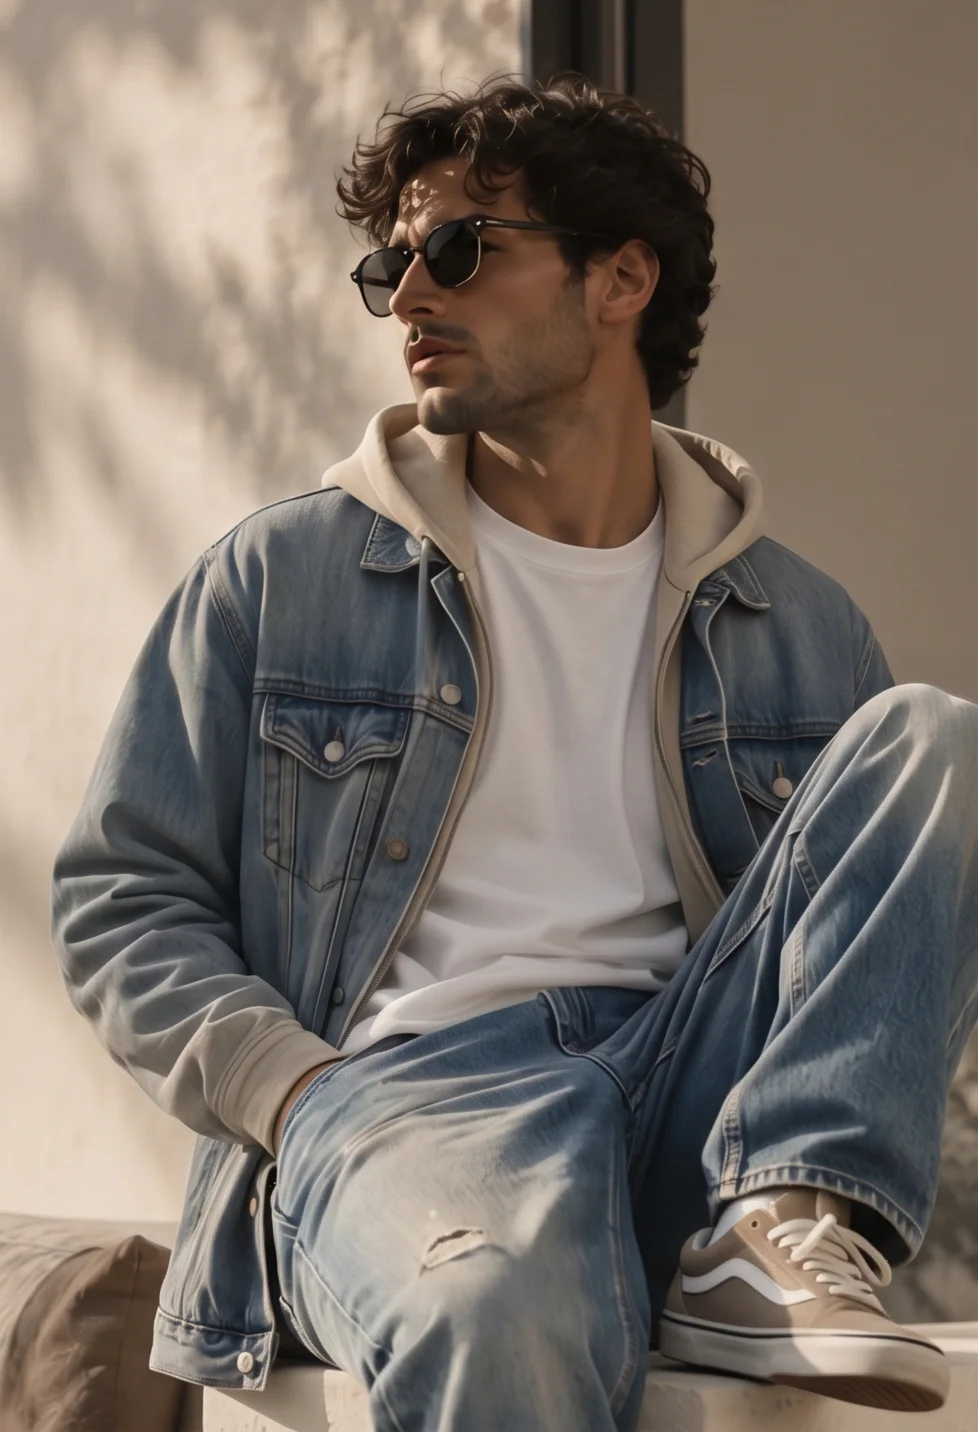
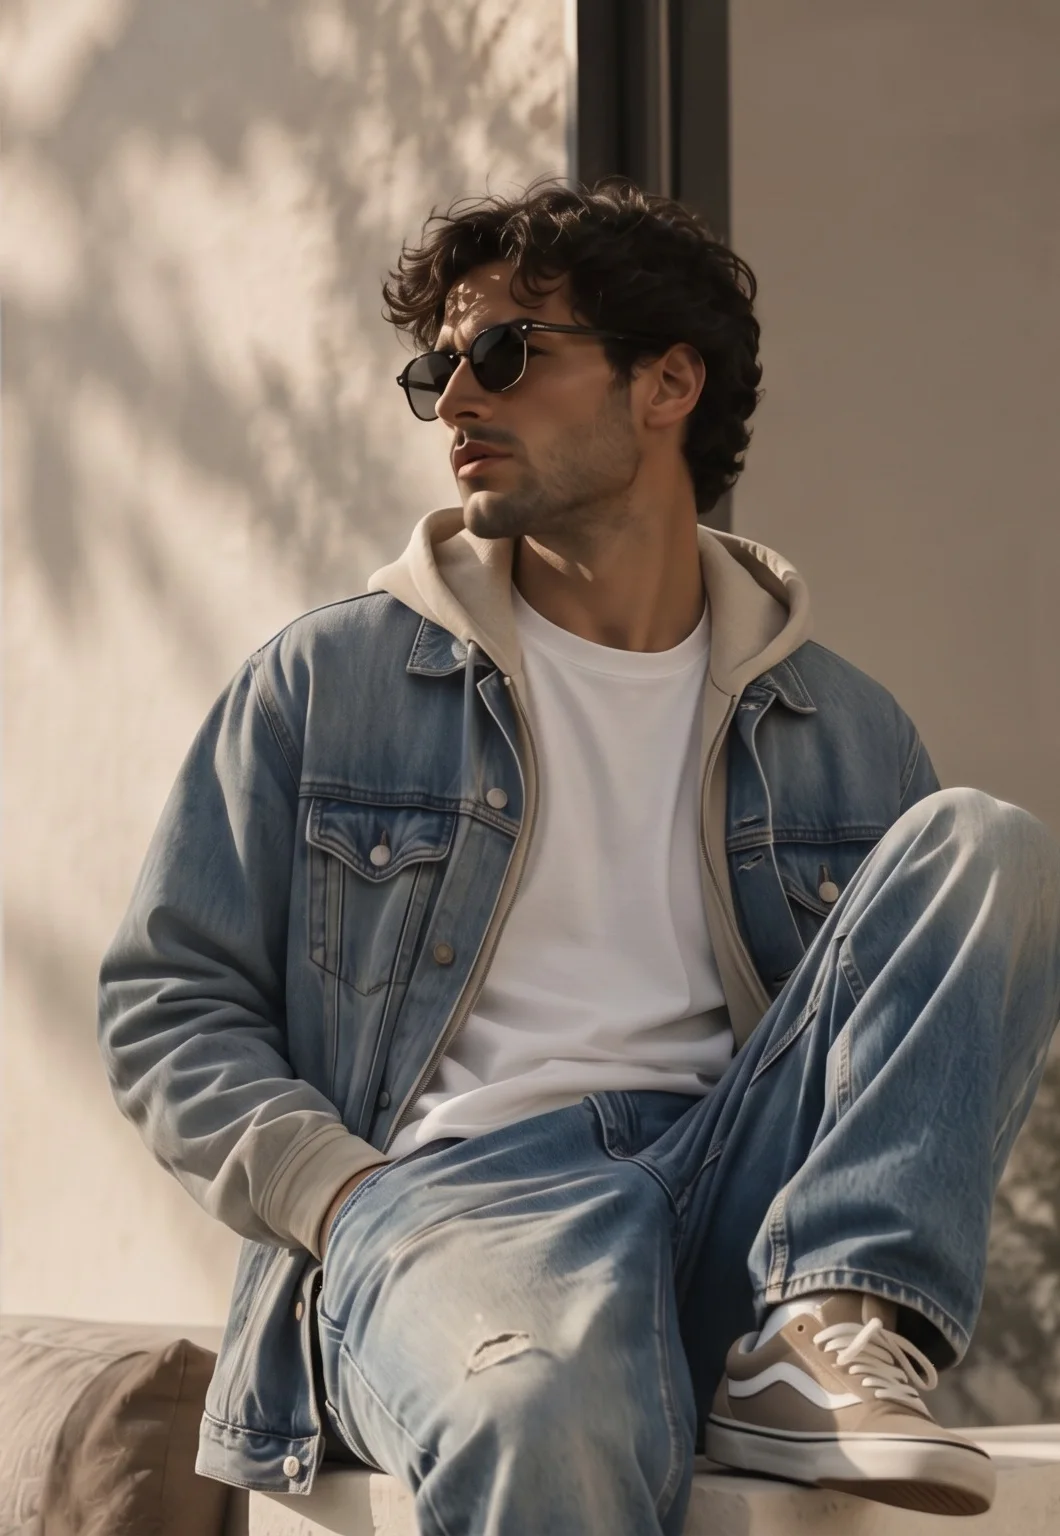
feat: héros plein écran avec la scène complète et flou dégradé
- Grand écran : scène hero3 entière en fond (textes de maquette effacés : hero3-scene.jpg), plein écran
- Flou léger derrière le texte, qui s'efface vers le personnage et dans le bas du héros
- Texte décalé sur le ciel, accroche sous le titre entre 1024 et 1280 px, libellé vertical retiré
- Portrait du modèle (tablette, mobile) recadré depuis hero3-retouche.jpg, fondus réduits aux bords
- Menu : liens sur une seule ligne

diff --git a/ui/src/features/accueil/PageAccueil.tsx b/ui/src/features/accueil/PageAccueil.tsx
@@ -25,29 +25,42 @@ function Heros() {
   const parallaxe = useMedia('(min-width: 640px)') && actives
   return (
     <section ref={ref} className="relative flex flex-col overflow-hidden bg-gradient-to-b from-sable-200 via-sable-100 to-nacre sm:block sm:min-h-[100svh]">
-      {/* Arche de lumière (rappel de la maquette) */}
-      <div aria-hidden className="absolute -right-[20%] top-[-20%] h-[120%] w-[90%] rounded-t-full bg-gradient-to-b from-neige/45 to-transparent blur-2xl sm:-right-[10%] sm:w-[60%]" />
-      <motion.div style={parallaxe ? { y: yImage } : undefined} className="relative order-2 mx-auto h-[62svh] w-[88%] sm:absolute sm:bottom-0 sm:right-0 sm:order-none sm:mx-0 sm:h-[88%] sm:w-[46%] lg:w-[38%]">
-        <motion.img src="/images/campagne/hero-modele-640.webp" srcSet="/images/campagne/hero-modele-640.webp 640w, /images/campagne/hero-modele-1280.webp 978w"
-          sizes="(min-width: 1024px) 38vw, (min-width: 640px) 46vw, 88vw" alt="Homme en veste en jean et sweat à capuche écru, lunettes de soleil, assis sur un muret"
-          {...{ fetchpriority: 'high' }} className="masque-heros h-full w-full object-cover object-top"
+      {/* Grand écran : la scène entière en fond, nette sur le personnage */}
+      <div aria-hidden className="absolute inset-0 hidden lg:block">
+        <motion.img src="/images/campagne/hero-scene-1920.webp"
+          srcSet="/images/campagne/hero-scene-1280.webp 1280w, /images/campagne/hero-scene-1920.webp 1920w, /images/campagne/hero-scene-2560.webp 2560w"
+          sizes="100vw" alt="" {...{ fetchpriority: 'high' }} className="h-full w-full object-cover object-[62%_center]"
+          initial={actives ? { opacity: 0 } : false} animate={{ opacity: 1 }} transition={{ duration: 1.6, ease: EASE_MAISON }} />
+      </div>
+      {/* Flou dégradé : fort derrière le texte, il s'efface en allant vers le personnage */}
+      <div aria-hidden className="flou-heros pointer-events-none absolute inset-0 hidden backdrop-blur-[10px] lg:block" />
+      {/* Voile nacré léger pour la lisibilité du texte, et fondu vers la section suivante */}
+      <div aria-hidden className="pointer-events-none absolute inset-0 hidden bg-gradient-to-r from-nacre/50 via-nacre/20 via-45% to-transparent to-65% lg:block" />
+      <div aria-hidden className="pointer-events-none absolute inset-x-0 bottom-0 hidden h-6 bg-gradient-to-b from-transparent to-nacre/70 lg:block" />
+
+      {/* Mobile et tablette : arche de lumière + portrait du modèle */}
+      <div aria-hidden className="absolute -right-[20%] top-[-20%] h-[120%] w-[90%] rounded-t-full bg-gradient-to-b from-neige/45 to-transparent blur-2xl sm:-right-[10%] sm:w-[60%] lg:hidden" />
+      <motion.div style={parallaxe ? { y: yImage } : undefined} className="relative order-2 mx-auto h-[62svh] w-[88%] sm:absolute sm:bottom-0 sm:right-0 sm:order-none sm:mx-0 sm:h-[88%] sm:w-[46%] lg:hidden">
+        <motion.img src="/images/campagne/hero-modele-640.webp" srcSet="/images/campagne/hero-modele-640.webp 640w, /images/campagne/hero-modele-1280.webp 1060w"
+          sizes="(min-width: 640px) 46vw, 88vw" alt="Homme en veste en jean et sweat à capuche écru, lunettes de soleil, assis sur un muret"
+          className="masque-heros h-full w-full object-cover object-top"
           initial={actives ? { opacity: 0, scale: 1.06 } : false} animate={{ opacity: 1, scale: 1 }} transition={{ duration: 1.8, ease: EASE_MAISON }} />
       </motion.div>
 
       <motion.div style={parallaxe ? { opacity: opaciteTexte } : undefined} variants={conteneurCascade} initial={actives ? 'cache' : false} animate="visible"
-        className="conteneur relative z-10 order-1 grid pb-12 pt-28 sm:min-h-[100svh] sm:grid-rows-[1fr_auto] sm:pb-10 lg:grid-cols-[1fr_auto_1fr] lg:grid-rows-1 lg:items-center lg:pb-0">
-        <motion.div variants={elementApparition} className="hidden lg:block">
-          <p className="font-display text-[22px] uppercase italic leading-snug tracking-[0.18em] text-encre/80">Le casual,<br />une autre élégance.</p>
+        className="conteneur relative z-10 order-1 grid pb-12 pt-28 sm:min-h-[100svh] sm:grid-rows-[1fr_auto] sm:pb-10 lg:grid-cols-[1fr_auto_1.8fr] lg:grid-rows-1 lg:items-center lg:gap-10 lg:pb-0 lg:pt-16">
+        <motion.div variants={elementApparition} className="hidden lg:invisible lg:block xl:visible">
+          <p className="font-display text-[19px] uppercase italic leading-snug tracking-[0.18em] text-encre/80 xl:text-[22px]">Le casual,<br />une autre élégance.</p>
           <span className="mt-6 block h-px w-24 bg-encre/50" />
         </motion.div>
 
         <div className="flex flex-col items-center text-center sm:items-start sm:text-left lg:items-center lg:text-center">
-          <motion.div variants={elementApparition}><Monogramme className="h-24 sm:h-32 lg:h-40" /></motion.div>
-          <motion.h1 variants={elementApparition} className="mt-4 font-display text-[clamp(3rem,8vw,6.5rem)] font-medium uppercase leading-none tracking-[0.18em]">H Mode</motion.h1>
-          <motion.p variants={elementApparition} className="filet-etoile mt-6 text-[14px]" aria-hidden>✦</motion.p>
-          <motion.p variants={elementApparition} className="label-large mt-4 text-encre/70">Style · Quality · You</motion.p>
-          <motion.p variants={elementApparition} className="mt-8 max-w-sm font-display text-[20px] italic text-encre/80 lg:hidden">Le casual, une autre élégance.</motion.p>
-          <motion.div variants={elementApparition} className="mt-10 flex w-full max-w-xs flex-col gap-3 sm:w-auto sm:max-w-none sm:flex-row sm:justify-start lg:justify-center">
+          <motion.div variants={elementApparition}><Monogramme className="h-24 sm:h-32 lg:h-24 xl:h-32 2xl:h-40" /></motion.div>
+          <motion.h1 variants={elementApparition} className="mt-4 font-display text-[clamp(3rem,8vw,6.5rem)] font-medium uppercase leading-none tracking-[0.18em] lg:text-[clamp(3.25rem,5.6vw,6rem)]">H Mode</motion.h1>
+          <motion.p variants={elementApparition} className="filet-etoile mt-6 text-[14px] lg:mt-4 xl:mt-6" aria-hidden>✦</motion.p>
+          <motion.p variants={elementApparition} className="label-large mt-4 text-encre/70 lg:mt-3 xl:mt-4">Style · Quality · You</motion.p>
+          <motion.p variants={elementApparition} className="mt-8 max-w-sm font-display text-[20px] italic text-encre/80 lg:mt-4 lg:text-[18px] xl:hidden">Le casual, une autre élégance.</motion.p>
+          <motion.div variants={elementApparition} className="mt-10 flex w-full max-w-xs flex-col gap-3 sm:w-auto sm:max-w-none sm:flex-row sm:justify-start lg:mt-7 lg:justify-center xl:mt-10">
             <BoutonLien to="/boutique">Découvrir la boutique</BoutonLien>
             <BoutonLien to="/collections" variante="contour">Les collections</BoutonLien>
           </motion.div>
@@ -55,11 +68,10 @@ function Heros() {
         <div className="hidden lg:block" />
       </motion.div>
 
-      <a href="#selection" className="absolute bottom-8 left-1/2 z-10 hidden -translate-x-1/2 flex-col items-center gap-3 text-encre/70 lg:flex">
+      <a href="#selection" className="absolute bottom-7 left-[28%] z-10 hidden -translate-x-1/2 flex-col items-center gap-3 text-encre/70 lg:flex">
         <span className="label">Découvrir</span>
         <ArrowDown className="h-4 w-4 animate-descendre" strokeWidth={1.25} />
       </a>
-      <p aria-hidden className="label absolute right-5 top-1/2 hidden -translate-y-1/2 whitespace-nowrap text-encre/45 [writing-mode:vertical-rl] xl:block">H Mode — {boutique.ville}</p>
     </section>
   )
 }

diff --git a/ui/src/styles/index.css b/ui/src/styles/index.css
@@ -50,14 +50,21 @@
 }
 
 @layer utilities {
-  /* Photo du héros : fondus haut (court, sur le mur) + bas (mobile) ; + gauche (desktop) pour l'intégrer au fond sable */
-  .masque-heros { -webkit-mask-image: linear-gradient(to bottom, transparent, #000 5%, #000 80%, transparent); mask-image: linear-gradient(to bottom, transparent, #000 5%, #000 80%, transparent); }
+  /* Photo du héros : fondus courts sur les bords seulement (haut, bas ; + gauche en desktop), le modèle reste net */
+  .masque-heros { -webkit-mask-image: linear-gradient(to bottom, transparent, #000 8%, #000 90%, transparent); mask-image: linear-gradient(to bottom, transparent, #000 8%, #000 90%, transparent); }
   @media (min-width: 640px) {
     .masque-heros {
-      -webkit-mask-image: linear-gradient(to right, transparent, #000 24%), linear-gradient(to bottom, transparent, #000 5%, #000 76%, transparent);
-      mask-image: linear-gradient(to right, transparent, #000 24%), linear-gradient(to bottom, transparent, #000 5%, #000 76%, transparent);
+      -webkit-mask-image: linear-gradient(to right, transparent, #000 8%), linear-gradient(to bottom, transparent, #000 8%, #000 90%, transparent);
+      mask-image: linear-gradient(to right, transparent, #000 8%), linear-gradient(to bottom, transparent, #000 8%, #000 90%, transparent);
       -webkit-mask-composite: source-in; mask-composite: intersect;
     }
+  }
+  /* Héros grand écran : le flou couvre la zone du texte puis s'efface avant le personnage et dans le bas */
+  .flou-heros {
+    /* Horizontal : fort à gauche, nul avant le personnage. Vertical : s'efface dans le bas du héros (terrasse nette). */
+    -webkit-mask-image: linear-gradient(to right, #000 0%, #000 34%, transparent 58%), linear-gradient(to bottom, #000 0%, #000 62%, transparent 88%);
+    mask-image: linear-gradient(to right, #000 0%, #000 34%, transparent 58%), linear-gradient(to bottom, #000 0%, #000 62%, transparent 88%);
+    -webkit-mask-composite: source-in; mask-composite: intersect;
   }
   .defilement-masque { scrollbar-width: none; }
   .defilement-masque::-webkit-scrollbar { display: none; }

diff --git a/ui/src/features/infos/PageMaison.tsx b/ui/src/features/infos/PageMaison.tsx
@@ -8,7 +8,7 @@ export function PageMaison() {
     <>
       <EnTetePage surtitre="La Maison" titre="Le casual, une autre élégance." ariane={[{ libelle: 'Accueil', vers: '/' }, { libelle: 'La Maison' }]} />
       <section className="conteneur grid items-center gap-12 lg:grid-cols-2 lg:gap-24">
-        <Cadre className="aspect-[4/5]"><img src="/images/campagne/hero-modele-640.webp" srcSet="/images/campagne/hero-modele-640.webp 640w, /images/campagne/hero-modele-1280.webp 978w" sizes="(min-width: 1024px) 40vw, 100vw" alt="Homme en veste en jean et sweat à capuche écru, lunettes de soleil" className="absolute inset-0 h-full w-full object-cover object-top" /></Cadre>
+        <Cadre className="aspect-[4/5]"><img src="/images/campagne/hero-modele-640.webp" srcSet="/images/campagne/hero-modele-640.webp 640w, /images/campagne/hero-modele-1280.webp 1060w" sizes="(min-width: 1024px) 40vw, 100vw" alt="Homme en veste en jean et sweat à capuche écru, lunettes de soleil" className="absolute inset-0 h-full w-full object-cover object-top" /></Cadre>
         <Revelation className="flex flex-col gap-6 text-[17px] text-gris">
           <Monogramme className="h-14" />
           <p>H MODE est une boutique de vêtements premium pour homme, à {boutique.ville}.</p>

diff --git a/ui/src/components/EnTete.tsx b/ui/src/components/EnTete.tsx
@@ -52,7 +52,7 @@ export function EnTete() {
           <ul className="hidden items-center gap-9 lg:flex">
             {LIENS_PRINCIPAUX.map(l => (
               <li key={l.vers}>
-                <NavLink to={l.vers} className={({ isActive }) => cn('label relative py-2 transition-colors after:absolute after:inset-x-0 after:-bottom-0.5 after:h-px after:origin-left after:bg-current after:transition-transform after:duration-500 after:ease-maison',
+                <NavLink to={l.vers} className={({ isActive }) => cn('label relative whitespace-nowrap py-2 transition-colors after:absolute after:inset-x-0 after:-bottom-0.5 after:h-px after:origin-left after:bg-current after:transition-transform after:duration-500 after:ease-maison',
                   isActive ? 'after:scale-x-100' : 'after:scale-x-0 hover:after:scale-x-100')}>{l.libelle}</NavLink>
               </li>
             ))}

diff --git a/ui/medias/LISEZMOI.md b/ui/medias/LISEZMOI.md
@@ -7,7 +7,8 @@ medias/
 ├── produits/<slug-du-produit>/1.jpg   ← photo de la carte (vue principale)
 │                              2.jpg   ← vue au survol de la carte, puis galerie de la fiche
 │                              3.jpg … ← vues suivantes de la galerie
-├── campagne/hero3.jpeg                ← maquette d'où est découpé le modèle du héros (accueil, page Maison)
+├── campagne/hero3.jpeg                ← maquette d'origine du héros (non modifiée)
+├── campagne/hero3-retouche.jpg        ← copie sans les textes de la maquette (« H MODE » vertical, icônes) : source du héros
 ├── campagne/cadrages.json             ← pour chaque image : fichier source, zone découpée (x, y, largeur, hauteur), largeurs
 └── provenance.json                    ← d'où vient chaque photo (photos boutique, Nike, Jumia…)
 ```
